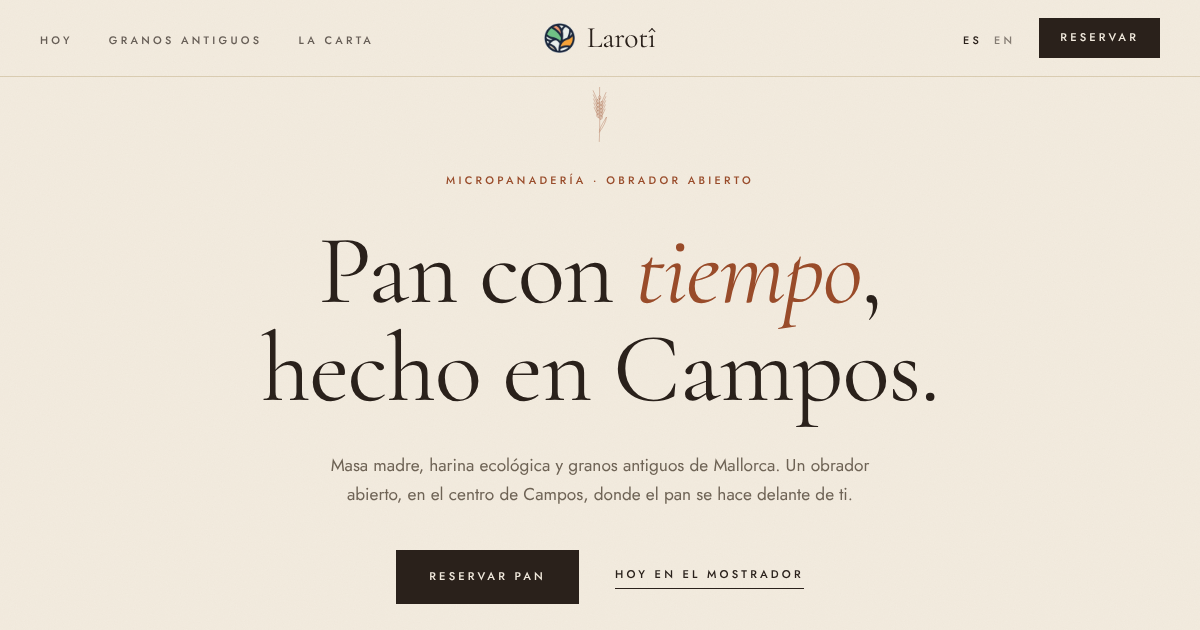
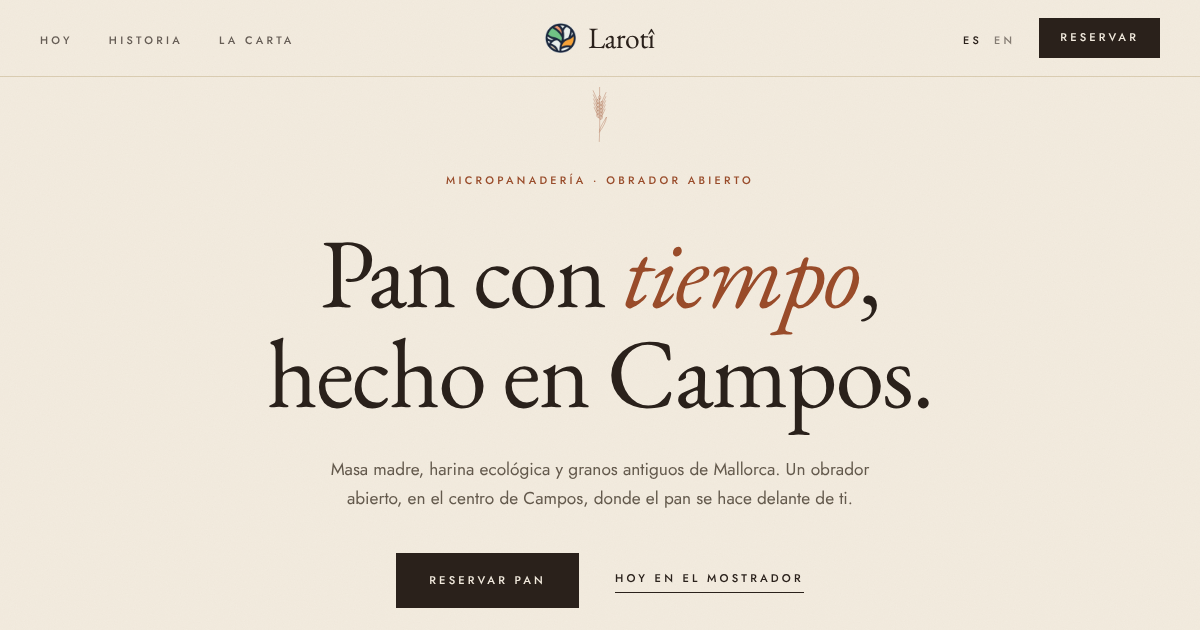
Su historia: línea de tiempo, mapa de su Mallorca, sello y detalles reales
Claude-Session: https://claude.ai/code/session_01QaVtpzoLGCxfdaoau7BgaH

diff --git a/src/i18n/ui.ts b/src/i18n/ui.ts
@@ -5,7 +5,7 @@ export const home = (lang: Lang) => (lang === 'en' ? '/en' : '/');
 const es = {
   meta: { title: 'Larotî · Micropanadería y obrador abierto en Campos, Mallorca', description: 'Pan fresco de masa madre y harina eco en Campos, Mallorca. Mira qué hay hoy en el mostrador y reserva tu pan para recogerlo. De martes a sábado, de 8 a 14 h.' },
   skip: 'Saltar al contenido', demo: 'Propuesta de diseño no oficial', demoBy: 'Preparada por Ammavaroo para',
-  nav: { hoy: 'Hoy', reserva: 'Reservar', granos: 'Granos antiguos', productos: 'La carta', contacto: 'Visítanos', principal: 'Principal', idioma: 'Idioma', btn: 'Reservar' },
+  nav: { hoy: 'Hoy', historia: 'Historia', reserva: 'Reservar', granos: 'Granos antiguos', productos: 'La carta', contacto: 'Visítanos', principal: 'Principal', idioma: 'Idioma', btn: 'Reservar' },
   hero: {
     eyebrow: 'Micropanadería · Obrador abierto',
     h1: 'Pan con <em>tiempo</em>, hecho en Campos.',
@@ -26,7 +26,7 @@ const es = {
   },
   reserva: {
     label: 'Reservas', h2: 'Te lo <em>guardamos</em>.',
-    text: 'Elige el día, añade lo que quieras y pásate a recogerlo de 8 a 14 h. Se paga en la tienda.',
+    text: 'Hacemos poco pan, a propósito. Resérvalo y te lo apartamos: elige el día, añade lo que quieras y recógelo de 8 a 14 h. Se paga en la tienda.',
     dia: '¿Qué día pasas?', que: '¿Qué te guardamos?', resumen: 'Tu reserva',
     vacio: 'Todavía no has añadido nada.', piezas: (n: number) => (n === 1 ? '1 pieza' : `${n} piezas`),
     nombre: 'Nombre', telefono: 'Teléfono', nota: 'Nota', opcional: '(opcional)',
@@ -42,10 +42,20 @@ const es = {
     finca: 'De la Finca Bellver Ric, en Manacor',
   },
   productos: { label: 'Del obrador', h2: 'La <em>carta</em>', sinGlutenCorto: 'Sin gluten', sub: 'Todo sale de nuestro obrador, con masa madre y harina eco.', sinGluten: 'naturalmente sin gluten', nota: 'Los productos «naturalmente sin gluten» se hacen en un obrador donde se trabaja con gluten: no son aptos para celíacos.', todo: 'Todo', ver: 'Ingredientes' },
+  historia: {
+    label: 'Nuestra historia', h2: 'De Dubái a la <em>calle Convent</em>.',
+    alt: 'Manos sosteniendo una hogaza de masa madre recién hecha',
+    firma: 'Juan y Ana. Una familia, un obrador y pan hecho con tiempo.',
+    anys: { Antes: 'Antes', Hoy: 'Hoy' },
+    mapaT: 'Su <em>Mallorca</em>', mapaD: 'Lo que entra y sale del obrador cabe en un trozo de isla.',
+    mapaAria: 'Mapa de Mallorca con Campos, Manacor, Palma y Es Trenc',
+  },
+  sello: 'Micropanadería · Campos · Mallorca · Desde 2022 · ',
+  mercado: 'Jueves y sábado, día de mercado: ven temprano',
   obrador: {
     label: 'El obrador', h2: 'Un obrador <em>abierto</em>, a la vista de todos.', alt1: 'Hogazas en la estantería de Larotî', alt2: 'Cruasán de Larotî',
-    p1: 'Tenemos un par de mesas para tomar un café mientras se forman los panes. Trabajamos con harinas ecológicas, masa madre y tiempo.',
-    p2: 'Además del pan encontrarás laminados, dulces, salados y una selección de productos de la isla.',
+    p1: 'Hay una mesa para tomar un café mientras se forman los panes, a la vista. Harinas ecológicas de Roca Fariners, granos antiguos de Manacor, masa madre y tiempo.',
+    p2: 'Además del pan hay laminados, dulces y salados, el chocolate Maüa de Palma y una pequeña despensa de la isla. Si vas a Es Trenc, pasa antes: el picnic, resuelto.',
     ceramica: 'Cerámica de Isabella Avalos', ceramicaT: 'Piezas únicas hechas a mano por una artesana de Campos, a la venta en la micropanadería. Isabella también da clases en su casa.',
     puntos: ['Harinas ecológicas', 'Masa madre', 'Granos de Mallorca', 'Empresa familiar'],
   },
@@ -63,7 +73,7 @@ type Textos = typeof es;
 const en: Textos = {
   meta: { title: 'Larotî · Micro-bakery and open workshop in Campos, Mallorca', description: 'Fresh sourdough bread made with organic flour in Campos, Mallorca. See what is on the counter today and reserve your loaf for pickup. Tuesday to Saturday, 8 am to 2 pm.' },
   skip: 'Skip to content', demo: 'Unofficial design proposal', demoBy: 'Prepared by Ammavaroo for',
-  nav: { hoy: 'Today', reserva: 'Reserve', granos: 'Ancient grains', productos: 'Menu', contacto: 'Visit us', principal: 'Main', idioma: 'Language', btn: 'Reserve' },
+  nav: { hoy: 'Today', historia: 'Our story', reserva: 'Reserve', granos: 'Ancient grains', productos: 'Menu', contacto: 'Visit us', principal: 'Main', idioma: 'Language', btn: 'Reserve' },
   hero: {
     eyebrow: 'Micro-bakery · Open workshop',
     h1: 'Bread made with <em>time</em>, in Campos.',
@@ -84,7 +94,7 @@ const en: Textos = {
   },
   reserva: {
     label: 'Reservations', h2: 'We will <em>keep it</em> for you.',
-    text: 'Pick a day, add what you would like and collect it between 8 am and 2 pm. You pay in the shop.',
+    text: 'We bake little, on purpose. Reserve and we will set it aside: pick a day, add what you would like and collect it between 8 am and 2 pm. You pay in the shop.',
     dia: 'Which day will you come?', que: 'What shall we keep for you?', resumen: 'Your reservation',
     vacio: 'Nothing added yet.', piezas: (n: number) => (n === 1 ? '1 item' : `${n} items`),
     nombre: 'Name', telefono: 'Phone', nota: 'Note', opcional: '(optional)',
@@ -100,10 +110,20 @@ const en: Textos = {
     finca: 'From Finca Bellver Ric, in Manacor',
   },
   productos: { label: 'From the workshop', h2: 'The <em>menu</em>', sinGlutenCorto: 'Gluten-free', sub: 'Everything comes from our workshop, with sourdough and organic flour.', sinGluten: 'naturally gluten-free', nota: '“Naturally gluten-free” products are made in a workshop that handles gluten: they are not suitable for coeliacs.', todo: 'All', ver: 'Ingredients' },
+  historia: {
+    label: 'Our story', h2: 'From Dubai to <em>Carrer Convent</em>.',
+    alt: 'Hands holding a freshly baked sourdough loaf',
+    firma: 'Juan and Ana. A family, a workshop and bread made with time.',
+    anys: { Antes: 'Before', Hoy: 'Today' },
+    mapaT: 'Their <em>Mallorca</em>', mapaD: 'Everything that comes in and out of the workshop fits in a corner of the island.',
+    mapaAria: 'Map of Mallorca with Campos, Manacor, Palma and Es Trenc',
+  },
+  sello: 'Micro-bakery · Campos · Mallorca · Since 2022 · ',
+  mercado: 'Thursday and Saturday are market days: come early',
   obrador: {
     label: 'The workshop', h2: 'An <em>open</em> workshop, in plain sight.', alt1: 'Loaves on the shelf at Larotî', alt2: 'Croissant from Larotî',
-    p1: 'We have a couple of tables for a coffee while the loaves are shaped. We work with organic flours, sourdough and time.',
-    p2: 'Besides bread you will find pastries, sweet and savoury bakes and a selection of products from the island.',
+    p1: 'There is a table for a coffee while the loaves are shaped, in plain sight. Organic flours from Roca Fariners, ancient grains from Manacor, sourdough and time.',
+    p2: 'Besides bread there are pastries, sweet and savoury bakes, Maüa chocolate from Palma and a small pantry from the island. Heading to Es Trenc? Stop by first: picnic sorted.',
     ceramica: 'Ceramics by Isabella Avalos', ceramicaT: 'One-of-a-kind pieces handmade by an artisan from Campos, for sale at the micro-bakery. Isabella also gives classes at her home.',
     puntos: ['Organic flours', 'Sourdough', 'Mallorcan grains', 'Family business'],
   },

diff --git a/src/data/historia.ts b/src/data/historia.ts
@@ -1,0 +1,38 @@
+/**
+ * La historia de Larotî, según lo publicado sobre ellos:
+ * - Entrevista de El Amasadero (8/5/2025): el proyecto nace en 2015 en Dubái; antes de la tienda, Larotî
+ *   ya tenía nombre y logo; obrador y tienda abren en junio de 2022; fomentan la reserva porque la producción es pequeña.
+ * - Eat Drink Sleep Mallorca (15/4/2024): Juan Ocampo fue chef de Tess de Mar, en Campos; cola los días de mercado;
+ *   venden chocolate Maüa (Palma); idea de picnic en Es Trenc.
+ * - TravelToZero: lo llevan Ana y Juan; harinas ecológicas de Roca Fariners.
+ * - laroti.es: granos antiguos de la Finca Bellver Ric (Manacor), cerámica de Isabella Avalos.
+ * No se sabe qué significa el nombre: no se inventa.
+ */
+export const hitos = [
+  { any: '2015', es: { t: 'Una idea, lejos de casa', d: 'En Dubái, Juan y Ana empiezan a imaginar una panadería propia: pan de masa madre y una vida que les dejara tiempo para la familia.' },
+    en: { t: 'An idea, far from home', d: 'In Dubai, Juan and Ana begin to imagine a bakery of their own: sourdough bread and a life that left time for family.' } },
+  { any: 'Antes', es: { t: 'Un nombre antes que una tienda', d: 'Larotî tuvo nombre y logo mucho antes de tener local. Mientras, Juan cocinaba: más de quince años en hostelería, los últimos como chef de Tess de Mar, en Campos.' },
+    en: { t: 'A name before a shop', d: 'Larotî had a name and a logo long before it had premises. Meanwhile Juan cooked: over fifteen years in hospitality, the last ones as chef at Tess de Mar, in Campos.' } },
+  { any: '2022', es: { t: 'Calle Convent, 15', d: 'En junio abren obrador y tienda a pocos pasos de aquella cocina, con dos hornos de piso y la puerta abierta para ver cómo se forma el pan.' },
+    en: { t: 'Carrer Convent, 15', d: 'In June they open the workshop and shop a few steps from that kitchen, with two deck ovens and the door open to watch the bread being shaped.' } },
+  { any: 'Hoy', es: { t: 'Cola los días de mercado', d: 'Jueves y sábado, con el mercado de Campos, hay cola en la puerta. Producen poco, a propósito: por eso piden que reserves.' },
+    en: { t: 'A queue on market days', d: 'On Thursdays and Saturdays, with the Campos market, there is a queue at the door. They bake little, on purpose: that is why they ask you to reserve.' } },
+] as const;
+
+/** Lugares de su Mallorca (lat, lon). */
+export const lugares = [
+  { id: 'campos', lat: 39.431, lon: 3.019, es: { t: 'Campos', d: 'El obrador, en la calle Convent.' }, en: { t: 'Campos', d: 'The workshop, on Carrer Convent.' }, casa: true },
+  { id: 'manacor', lat: 39.57, lon: 3.209, es: { t: 'Manacor', d: 'Xeixa, Kamut y Senatore Cappelli de la Finca Bellver Ric.' }, en: { t: 'Manacor', d: 'Xeixa, Kamut and Senatore Cappelli from Finca Bellver Ric.' } },
+  { id: 'palma', lat: 39.57, lon: 2.65, es: { t: 'Palma', d: 'El chocolate Maüa, del grano a la tableta.' }, en: { t: 'Palma', d: 'Maüa chocolate, bean to bar.' } },
+  { id: 'trenc', lat: 39.345, lon: 2.975, es: { t: 'Es Trenc', d: 'A un paso: pan, queso y picnic junto al mar.' }, en: { t: 'Es Trenc', d: 'Close by: bread, cheese and a picnic by the sea.' } },
+] as const;
+
+/** Costa de Mallorca simplificada (lat, lon), en orden. */
+export const costa: [number, number][] = [
+  [39.92, 3.06], [39.95, 3.15], [39.962, 3.21], [39.93, 3.17], [39.9, 3.09], [39.88, 3.13], [39.892, 3.195], [39.86, 3.15], [39.84, 3.13],
+  [39.78, 3.16], [39.75, 3.21], [39.745, 3.27], [39.765, 3.33], [39.73, 3.4], [39.715, 3.475], [39.68, 3.46], [39.65, 3.44], [39.6, 3.39],
+  [39.54, 3.34], [39.49, 3.3], [39.42, 3.27], [39.37, 3.24], [39.355, 3.2], [39.32, 3.15], [39.29, 3.1], [39.265, 3.05], [39.3, 3.0],
+  [39.325, 2.99], [39.345, 2.965], [39.36, 2.93], [39.365, 2.85], [39.37, 2.78], [39.43, 2.76], [39.5, 2.745], [39.545, 2.7], [39.565, 2.65],
+  [39.55, 2.6], [39.53, 2.57], [39.5, 2.535], [39.465, 2.52], [39.5, 2.47], [39.52, 2.42], [39.545, 2.38], [39.58, 2.35], [39.63, 2.42],
+  [39.67, 2.48], [39.7, 2.53], [39.73, 2.6], [39.755, 2.64], [39.795, 2.69], [39.83, 2.75], [39.855, 2.8], [39.88, 2.88], [39.905, 2.96],
+];

diff --git a/src/styles/global.css b/src/styles/global.css
@@ -3,7 +3,7 @@
 /*
   Larotî · dirección «mallorquina artesanal».
   Papel de marés, tinta marrón, terracota de baldosa y verde algarrobo.
-  Serif fina (Cormorant Garamond) para la voz; Jost para el texto y las etiquetas.
+  Serif clásica (EB Garamond) para la voz; Jost para el texto y las etiquetas.
   Arcos de finca para las fotos, filetes finos y espigas a línea.
 */
 @theme {
@@ -24,7 +24,7 @@
   --color-salvia-2: #d3d2bb;
   --color-preseg: #efe2d2;
   --font-sans: "Jost Variable", ui-sans-serif, system-ui, sans-serif;
-  --font-serif: "Cormorant Garamond", ui-serif, Georgia, serif;
+  --font-serif: "EB Garamond Variable", ui-serif, Georgia, serif;
   --font-mono: ui-monospace, "SFMono-Regular", Menlo, Consolas, monospace;
 }
 
@@ -37,13 +37,10 @@ body::after { content: ''; position: fixed; inset: 0; z-index: 70; pointer-event
 :focus-visible { outline: 1px solid var(--color-taronja-2); outline-offset: 4px; }
 .fosc :focus-visible { outline-color: var(--color-taronja); }
 
-.titol { font-family: var(--font-serif); font-weight: 400; letter-spacing: -0.012em; line-height: 1; }
+.titol { font-family: var(--font-serif); font-weight: 400; letter-spacing: -0.02em; line-height: 1.02; }
 .titol em { font-style: italic; font-weight: 400; }
 .label { font-size: 0.68rem; font-weight: 500; letter-spacing: 0.3em; text-transform: uppercase; }
 .num { font-family: var(--font-serif); font-variant-numeric: lining-nums; }
-/* «î» del logotipo: Cormorant coloca mal el circunflejo sobre la i, así que se dibuja aparte */
-.i-circ { position: relative; display: inline-block; }
-.i-circ::after { content: ''; position: absolute; left: 50%; top: 0.2em; width: 0.17em; height: 0.17em; translate: -50% 0; border: solid currentColor; border-width: 0.05em 0 0 0.05em; rotate: 45deg; }
 .cursiva { font-family: var(--font-serif); font-style: italic; }
 
 /* Arco de finca: foto con remate de medio punto y filete fino separado */

diff --git a/README.md b/README.md
@@ -19,12 +19,20 @@ En la demo todo se guarda solo en el navegador (`localStorage`): no se envía ni
 
 ## Diseño
 
-- **Criterio:** editorial y sobrio, con fotografía nítida, jerarquía clara y lo útil en la primera pantalla (abierto o cerrado, dirección, cuántos productos hay hoy).
-- **Tipografía:** Syne (titulares) y Albert Sans (texto), autoalojadas.
-- **Color:** papel cálido y la tinta azul noche de su emblema. Cada sección lleva un tono suave de su logo: salvia en «Hoy» y melocotón en «La carta». El naranja va solo como acento.
+- **Dirección:** mallorquina artesanal. Papel de marés con grano, fotos en arco de finca con filete fino, espigas dibujadas a línea y composición centrada, como una carta impresa.
+- **Tipografía:** EB Garamond (titulares) y Jost (texto), autoalojadas.
+- **Color:** papel, tinta marrón, terracota y verde algarrobo para las secciones oscuras.
+- **Detalles de su historia:** sello «Desde 2022», aviso de los días de mercado, línea de tiempo de Dubái a la calle Convent y un mapa de «su Mallorca» (Campos, Manacor, Palma y Es Trenc).
 - **Marca:** su emblema en la cabecera y una de sus hojas como pequeño icono en las etiquetas de sección.
 - **Detalles de uso:** el mostrador se desplaza en horizontal; al reservar desde él sale un aviso discreto; en escritorio, al pasar por la carta aparece la foto del producto junto al cursor.
 - Castellano en `/` e inglés en `/en` (mucho cliente extranjero en Mallorca).
+
+## Su historia (fuentes)
+
+- **El Amasadero** (entrevista, 8/5/2025): el proyecto nace en 2015 en Dubái; Larotî tuvo nombre y logo antes que local; obrador y tienda abren en junio de 2022; animan a reservar porque producen poco.
+- **Eat Drink Sleep Mallorca** (15/4/2024): Juan Ocampo fue chef de Tess de Mar, en Campos; cola los días de mercado; chocolate Maüa; idea de picnic en Es Trenc.
+- **TravelToZero**: lo llevan Ana y Juan; harinas ecológicas de Roca Fariners.
+- No se ha encontrado qué significa el nombre «Larotî»: la web no lo explica ni se inventa.
 
 ## Contenido y fuentes
 
